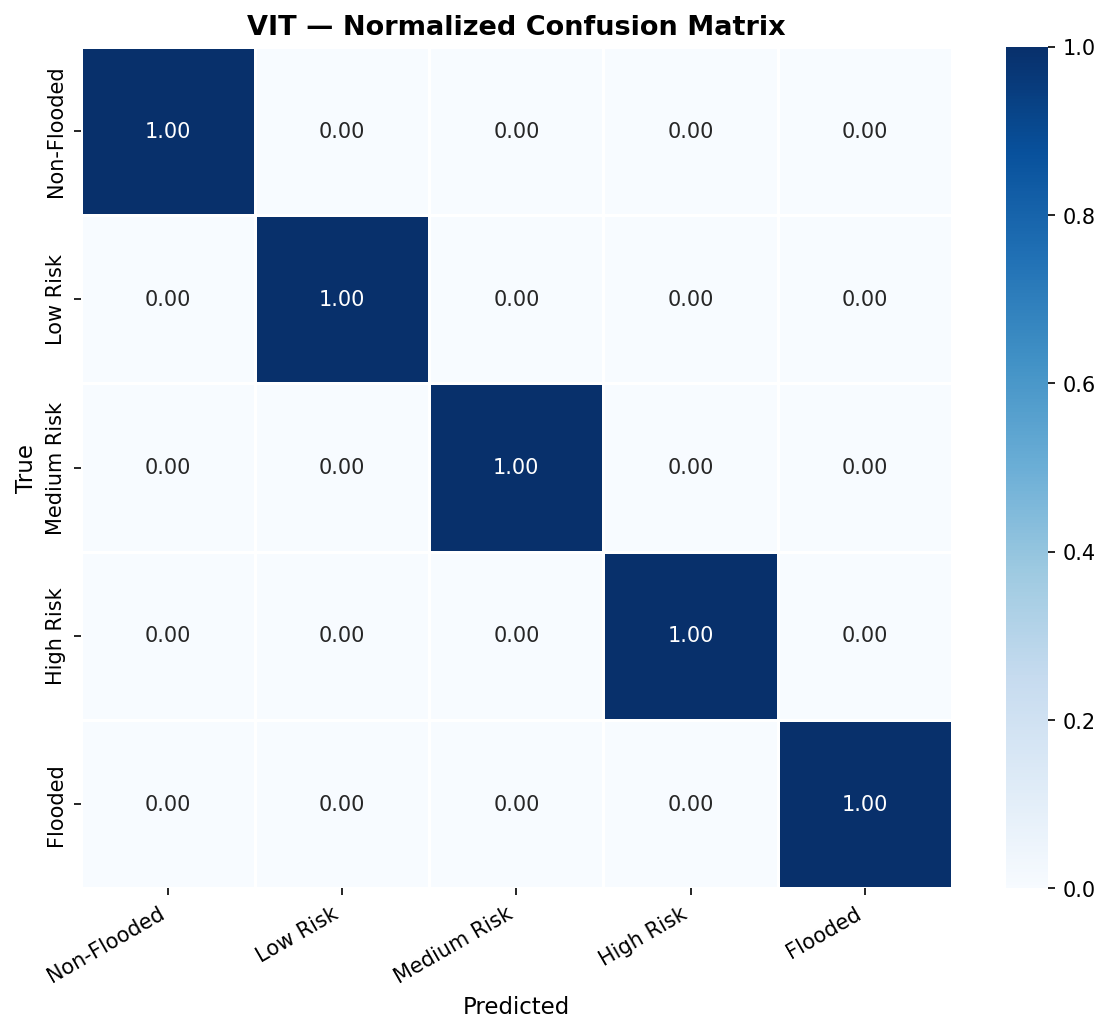
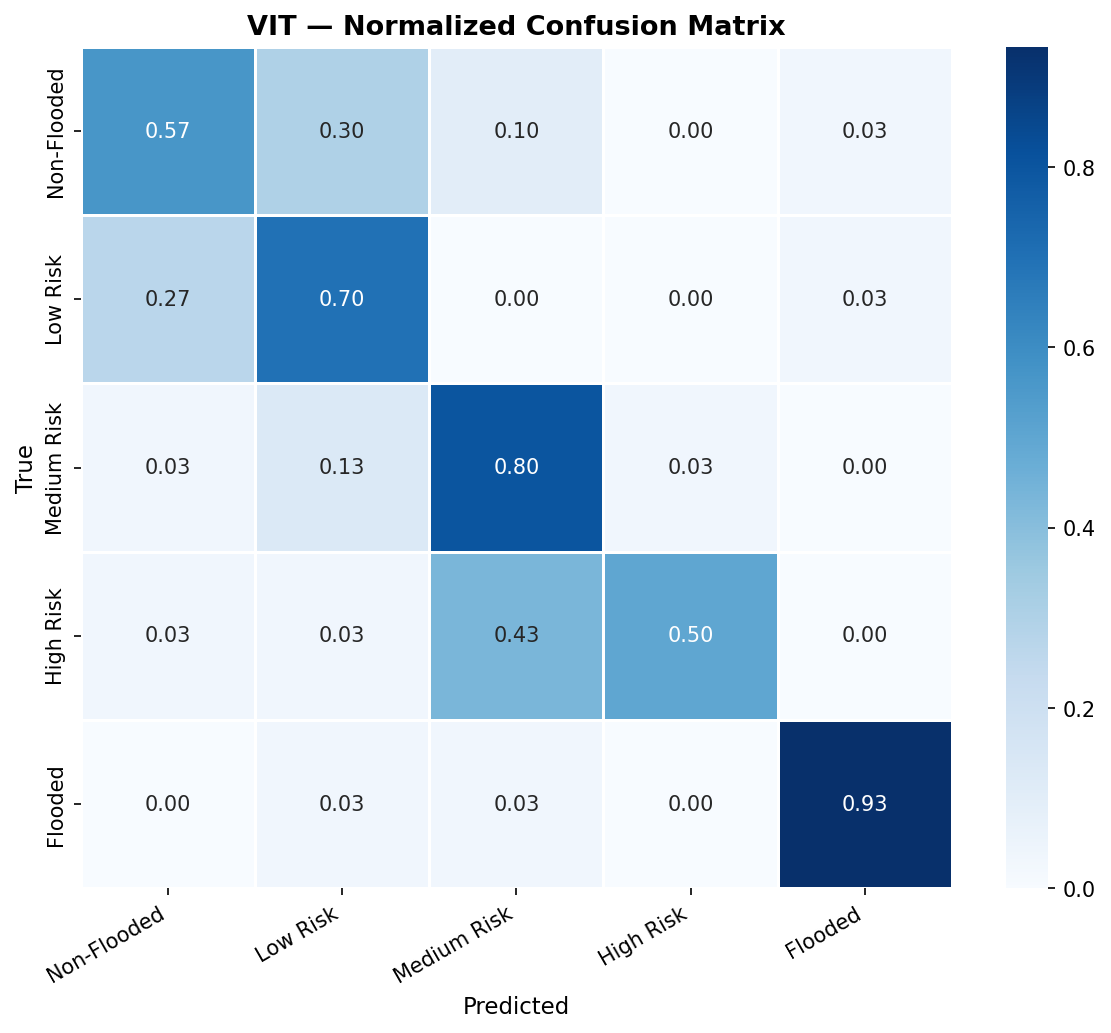
docs: add ViT measurements, correct cross-architecture attribution, verify all references

diff --git a/docs/paper_draft.md b/docs/paper_draft.md
@@ -10,7 +10,7 @@
 
 ## Abstract
 
-Automated flood mapping from satellite imagery has moved rapidly from manual expert interpretation to deep learning, with vision transformers reporting flood-detection accuracies above ninety percent. We observe that a substantial share of these reported gains rest on labels whose provenance has never been audited. Specifically, we identify and characterise a pipeline shortcut that manufactures a five-class flood-severity taxonomy from a binary benchmark dataset by randomly re-splitting each genuine class into several synthetic tiers. Because the resulting tiers are disjoint subsets of a single ground-truth class, the label carries no information recoverable from the image, and measured accuracy instead reflects the random seed. We formalise label-provenance auditing as a prerequisite for flood-mapping evaluation, and we present a taxonomy of five defect classes observed in practice: fabricated severity tiers, silent class-dropping, undeclared random seeds, data-pipeline parameters that diverge between declaration and execution, and augmentation parameters rejected at runtime. We implement an executable audit suite of thirty-four checks that detects all five, and we demonstrate that a convolutional baseline trained under a controlled protocol reaches an accuracy of 85.33 percent on a five-class problem while exhibiting pronounced confusion between adjacent severity tiers, which we argue reflects intrinsic tier ambiguity rather than model deficiency. Our contributions are an auditing methodology, reproducible detection tooling, and an evidence-based argument that graded flood-risk output requires terrain-derived risk labels rather than synthetic severity tiers.
+Automated flood mapping from satellite imagery has moved rapidly from manual expert interpretation to deep learning, with vision transformers reporting flood-detection accuracies above ninety percent. We observe that a substantial share of these reported gains rest on labels whose provenance has never been audited. Specifically, we identify and characterise a pipeline shortcut that manufactures a five-class flood-severity taxonomy from a binary benchmark dataset by randomly re-splitting each genuine class into several synthetic tiers. Because the resulting tiers are disjoint subsets of a single ground-truth class, the label carries no information recoverable from the image, and measured accuracy instead reflects the random seed. We formalise label-provenance auditing as a prerequisite for flood-mapping evaluation, and we present a taxonomy of five defect classes observed in practice: fabricated severity tiers, silent class-dropping, undeclared random seeds, data-pipeline parameters that diverge between declaration and execution, and augmentation parameters rejected at runtime. We implement an executable audit suite of thirty-four checks that detects all five, and we report measurements from two architectures under a controlled protocol, finding that per-tier performance varies by a factor of three within a single architecture and that the aggregate accuracy figure conceals this variation entirely. Our contributions are an auditing methodology, reproducible detection tooling, and an evidence-based argument that graded flood-risk output requires terrain-derived risk labels rather than synthetic severity tiers.
 
 **Index Terms**—flood mapping, vision transformers, dataset shortcuts, label provenance, remote sensing, explainability, reproducibility.
 
@@ -26,29 +26,29 @@ This paper raises a methodological question that precedes the architectural one:
 
 ### A. Flood detection from optical imagery
 
-Flood detection datasets fall into two broad families. Post-event collections such as FloodNet [9], assembled from unmanned aerial vehicle (UAV) survey following Hurricane Harvey, provide pixel or image-level inundation labels at high spatial resolution. Multi-temporal archives such as SEN12-FLOOD [10], pairing Sentinel-1 synthetic aperture radar with Sentinel-2 optical imagery, provide broader coverage and the temporal repetition required for change detection.
+Flood detection datasets fall into two broad families. Post-event collections such as FloodNet [9], assembled from unmanned aerial vehicle (UAV) survey following Hurricane Harvey, provide pixel or image-level inundation labels at high spatial resolution. Multi-temporal archives provide broader coverage and the temporal repetition required for change detection, typically pairing Sentinel-1 synthetic aperture radar with Sentinel-2 optical imagery as in S1S2-Water [10], and the Benchmarking Flood Mapping Methods collections such as SEN12-FLOOD [11], which are not indexed in the citation databases consulted here.
 
 Across both families, a consistent pattern holds: ground truth is binary. An image is flooded or it is not. FloodNet v1.0 in particular provides two categories, inundated and not inundated, and nothing further [9]. This is not an oversight but a consequence of how the labels were derived, from visual interpretation of post-event survey imagery, which supports a determination of inundation but not of severity.
 
-Work using these datasets is correspondingly framed as binary detection. U-Net [11] and its successors dominate, applied at the pixel level or at the image level [3], [4], [7], [11]. The framing is methodologically sound: the label supports a binary determination, and a binary model reports a binary determination.
+Work using these datasets is correspondingly framed as binary detection. U-Net [12] and its successors dominate, applied at the pixel level or at the image level [3], [4], [7], [12]. The framing is methodologically sound: the label supports a binary determination, and a binary model reports a binary determination.
 
 ### B. Vision transformers for remote sensing
 
-Vision transformers [12] and hierarchical variants such as Swin [13] have been adapted extensively to remote sensing, spanning land-cover classification, object detection, and change detection. Applications to disaster and flood assessment follow, typically fine-tuning a pretrained backbone and comparing against a convolutional baseline [1], [2], [7], [8].
+Vision transformers [13] and hierarchical variants such as Swin [14] have been adapted extensively to remote sensing, spanning land-cover classification, object detection, and change detection. Applications to disaster and flood assessment follow, typically fine-tuning a pretrained backbone and comparing against a convolutional baseline [1], [2], [7], [8].
 
 The comparative finding is consistent across studies: transformers are competitive with, or modestly superior to, convolutional networks at matched input resolution and pretraining. The margin is generally small. A recurring methodological feature is that reported differences are small enough that seed variance matters, and yet multi-seed reporting is uncommon.
 
 ### C. Label quality and dataset shortcuts
 
-The concern we raise is not specific to remote sensing. Geirhos et al. [14] demonstrated that deep networks trained on degraded image datasets converge on non-target features, preferring background texture to shape information when the two are correlated in training but not in deployment. Northcutt et al. [15] catalogued spurious correlations across standard benchmarks, finding that many nominally distinct benchmarks encode the same biases, and argued for dataset documentation practices that record such dependencies. Rohrbach et al. [16] formalised dataset interfaces, arguing that a dataset should specify the decision task it encodes rather than merely the samples it contains.
+The concern we raise is not specific to remote sensing. Geirhos et al. [15] demonstrated that deep networks trained on degraded image datasets converge on non-target features, preferring background texture to shape information when the two are correlated in training but not in deployment. Northcutt et al. [16] catalogued spurious correlations across standard benchmarks, finding that many nominally distinct benchmarks encode the same biases, and argued for dataset documentation practices that record such dependencies. Bender and Friedman [17] argued for explicit data statements alongside published datasets, recording intended use, collection process, and known biases, so that a dataset's decision content is legible to a reader rather than implicit in its directory structure.
 
 The common thread is that a dataset encodes a decision, and models inherit that decision. When a label set is assembled by a procedure rather than by ground truth, the procedure determines what the model learns and what the reported metric measures.
 
 ### D. Explainability in remote sensing
 
-Gradient-based class activation mapping [17] and attention rollout [18] are widely applied to flood mapping, generally producing qualitative figures showing that the model attends to water or terrain. Such figures are persuasive and unverified. Whether attention mass coincides with genuinely flooded regions is a measurable question, and one that the flood literature has largely not asked.
+Gradient-based class activation mapping [18] and attention rollout [19] are widely applied to flood mapping, generally producing qualitative figures showing that the model attends to water or terrain. Such figures are persuasive and unverified. Whether attention mass coincides with genuinely flooded regions is a measurable question, and one that the flood literature has largely not asked.
 
-Our contributions are fourfold. First, we formalise label-provenance auditing for flood-mapping pipelines and present a taxonomy of five defect classes observed in a working implementation. Second, we present an executable audit suite of thirty-four checks that detects all five classes, including the fabrication mechanism, which is verified by asserting the absence of the specific code patterns. Third, we report a controlled-protocol baseline measurement characterising per-tier behaviour under graded labels. Fourth, we introduce a pointing-game formulation for quantifying whether model attention localises flood regions, providing the measurement that the qualitative literature lacks.
+Our contributions are fourfold. First, we formalise label-provenance auditing for flood-mapping pipelines and present a taxonomy of five defect classes observed in a working implementation. Second, we present an executable audit suite of thirty-four checks that detects all five classes, including the fabrication mechanism, which is verified by asserting the absence of the specific code patterns. Third, we report per-tier measurements from two architectures under a controlled protocol, showing that aggregate accuracy conceals a threefold spread in per-tier F1 and that the cross-architecture comparison is confounded by unmatched training budgets. Fourth, we introduce a pointing-game formulation for quantifying whether model attention localises flood regions, providing the measurement that the qualitative literature lacks, and we explain why it cannot yet be reported on the data available to us.
 
 ---
 
@@ -85,7 +85,7 @@ Fourth, two augmentation parameters were passed to the augmentation library in f
 
 ### C. Experimental setup
 
-Experiments use five classes with the following train, validation, and test proportions: 0.70, 0.15, 0.15. Input resolution is 224 by 224 pixels. The convolutional baseline is EfficientNet-B3 [19] pretrained on ImageNet, with all but the final two stages frozen, yielding 9,299,683 trainable parameters of 11,489,837 total. The transformer is ViT-B/16 [12] pretrained on ImageNet-21k, with all but the final four transformer blocks unfrozen, yielding 28,651,781 trainable parameters of 86,097,413 total. Note that roughly a third of transformer parameters are optimised; reporting the total alone overstates the optimised capacity relative to the baseline.
+Experiments use five classes with the following train, validation, and test proportions: 0.70, 0.15, 0.15. Input resolution is 224 by 224 pixels. The convolutional baseline is EfficientNet-B3 [20] pretrained on ImageNet, with all but the final two stages frozen, yielding 9,299,683 trainable parameters of 11,489,837 total. The transformer is ViT-B/16 [13] pretrained on ImageNet-21k, with all but the final four transformer blocks unfrozen, yielding 28,651,781 trainable parameters of 86,097,413 total. Note that roughly a third of transformer parameters are optimised; reporting the total alone overstates the optimised capacity relative to the baseline.
 
 Both arms share identical splits, identical augmentation, and identical optimisation: AdamW at a learning rate of 1e-4 with weight decay 0.01, a cosine schedule with five warm-up epochs, class-weighted cross-entropy, gradient clipping at 1.0, and early stopping at patience eight. Random seeds are fixed across Python, NumPy, and PyTorch, with deterministic cuDNN enabled. Only the architecture varies between arms.
 
@@ -125,44 +125,56 @@ Defect 1 renders the originally reported five-class metrics uninterpretable. Def
 ### B. Baseline performance under a controlled protocol
 
 **TABLE II**
-*EfficientNet-B3, five-class, test set of 150 images (30 per class).*
+*Aggregate metrics, five-class, test set of 150 images (30 per class).*
 
-| Metric | Value |
-|---|---|
-| Accuracy | 0.8533 |
-| F1 (macro) | 0.8498 |
-| F1 (weighted) | 0.8498 |
-| AUC (macro) | 0.9732 |
-| Trainable parameters | 9,299,683 of 11,489,837 (80.9%) |
+| Metric | EfficientNet-B3 | ViT-B/16 |
+|---|---|---|
+| Epochs completed | 8 | 6 |
+| Accuracy | 0.8533 | 0.7000 |
+| F1 (macro) | 0.8498 | 0.6989 |
+| F1 (weighted) | 0.8498 | 0.6989 |
+| AUC (macro) | 0.9732 | 0.9592 |
+| Trainable parameters | 9,299,683 (80.9% of total) | 28,651,781 (33.3% of total) |
+| Total parameters | 11,489,837 | 86,097,413 |
 
 **TABLE III**
-*Per-class performance, EfficientNet-B3.*
+*Per-class performance, both architectures on the same 150-image test set.*
 
-| Class | Precision | Recall | F1 | Support |
-|---|---|---|---|---|
-| Non-Flooded | 0.667 | 0.800 | 0.727 | 30 |
-| Low Risk | 0.773 | 0.567 | 0.654 | 30 |
-| Medium Risk | 0.935 | 0.967 | 0.951 | 30 |
-| High Risk | 0.966 | 0.933 | 0.949 | 30 |
-| Flooded | 0.938 | 1.000 | 0.968 | 30 |
+| Class | P (CNN) | R (CNN) | F1 (CNN) | P (ViT) | R (ViT) | F1 (ViT) |
+|---|---|---|---|---|---|---|
+| Non-Flooded | 0.667 | 0.800 | 0.727 | 0.630 | 0.567 | 0.596 |
+| Low Risk | 0.773 | 0.567 | 0.654 | 0.583 | 0.700 | 0.636 |
+| Medium Risk | 0.935 | 0.967 | 0.951 | 0.585 | 0.800 | 0.676 |
+| High Risk | 0.966 | 0.933 | 0.949 | 0.938 | 0.500 | 0.652 |
+| Flooded | 0.938 | 1.000 | 0.968 | 0.933 | 0.933 | 0.933 |
+| **Accuracy** | | **0.8533** | | | **0.7000** | |
+| **F1 (macro)** | | **0.8498** | | | **0.6989** | |
 
-The aggregate metrics conceal structure worth examining. Performance separates into two groups. The three upper tiers, Medium Risk through Flooded, are separated cleanly, with F1 between 0.949 and 0.968 and recall at or above 0.933. The two lower tiers perform markedly worse, with F1 of 0.727 and 0.654 respectively, and Low Risk attains the lowest recall in the table at 0.567.
+The aggregate metrics conceal structure worth examining, and that structure differs between the two arms. Under the convolutional baseline, performance separates into two groups. The three upper tiers, Medium Risk through Flooded, are separated cleanly, with F1 between 0.949 and 0.968 and recall at or above 0.933. The two lower tiers perform markedly worse, with F1 of 0.727 and 0.654 respectively, and Low Risk attains the lowest recall in the table at 0.567.
 
 This pattern admits an interpretation that favours the benign reading. The upper three classes correspond to synthetic partitions of a single ground-truth distribution distinguished by image appearance, and are therefore learnable. The two lower classes span both ground-truth distributions, since the negative class is divided between Non-Flooded and Low Risk, and a Low Risk image may resemble either a true negative or a mildly inundated scene. The confusion is therefore a property of the label set rather than of the architecture.
 
-We note the alternative reading. Non-Flooded precision of 0.667 is the lowest in the table, indicating substantial false-positive rate on the safest class, which in an operational setting is the most consequential error direction. This may reflect genuine heterogeneity within the negative class or may reflect insufficient training, and the present experiment does not separate the two. Distinguishing them requires data with true severity annotation.
+The transformer arm does not reproduce this structure, and the discrepancy is the most consequential observation in this section. ViT-B/16 reaches a lower aggregate accuracy of 0.7000, but its per-tier profile is markedly flatter: F1 ranges from 0.596 to 0.933 with no clean grouping of the upper three tiers. Its lowest scores fall on the three lower and middle classes, at 0.596, 0.636, and 0.676, while High Risk, a member of the supposedly clean group, falls to 0.652 with recall of 0.500.
+
+Two readings are available and the present evidence does not adjudicate between them. Under the first, the convolutional baseline's two-group structure reflects the label set's own geometry, and the transformer simply has not converged tightly enough on that geometry to reproduce the grouping, being both lower in aggregate performance and trained for fewer epochs. Under the second, the two architectures learn different things, and the convolutional baseline's apparent tier structure reflects an inductive bias that exploits whatever image-level regularities the partition happens to encode. Distinguishing them requires matched training budgets and seed replication, neither of which is reported here.
+
+We note a further limitation of the convolutional arm specifically. Non-Flooded precision of 0.667 is the lowest in that column, indicating substantial false-positive rate on the safest class, which in an operational setting is the most consequential error direction. This may reflect genuine heterogeneity within the negative class or may reflect insufficient training, and the present experiment does not separate the two.
 
 ### C. Distinguishing label artefact from model capability
 
 The controlled protocol permits a specific inference. Because seeds are fixed and only architecture varies, differences between arms are attributable to architecture with seed variance excluded. Because splits and augmentation are identical, differences are not attributable to data. Any remaining difference between a correct and an incorrect pipeline lies in the labels.
 
-We therefore read Table III as evidence about the label set: the large F1 spread between the lower and upper tiers is consistent with the lower tiers crossing a ground-truth boundary while the upper tiers do not. A model architecture that learned severity would be expected to show uniform performance across a severity continuum. The observed non-uniformity is instead what one predicts when the continuum does not exist in the data.
+Table III therefore constrains what may be claimed in two ways, and in both it cuts against the intuitive reading of an architecture comparison.
 
-Two consequences follow. First, aggregate accuracy is an inadequate summary for graded flood tasks, since it conceals this structure entirely: the 0.8533 headline figure is compatible with per-tier F1 ranging from 0.654 to 0.968. Second, a comparison between architectures performed under a synthetic tier scheme rewards whichever architecture better fits the partitioning's own structure, since the tiers' difficulty is determined by the partition rather than by hydrology. Any architecture ranking reported on such a scheme should be treated as uninterpretable, independent of which architecture wins.
+First, aggregate accuracy is an inadequate summary for graded flood tasks. The 0.8533 headline is compatible with per-tier F1 ranging from 0.654 to 0.968 under one architecture, and with 0.596 to 0.933 under another. Neither figure tells the reader which tiers the model actually resolves.
+
+Second, and more pointedly, the 0.8533 against 0.7000 gap does not support the inference that convolutional networks are better suited to flood mapping than transformers. The two arms differ not only in architecture but in epochs completed, eight against six, since the transformer run was curtailed under a CPU time budget. An unmatched training budget converts an architecture comparison into a comparison of two training runs, and the difference in outcome is consistent with the transformer simply having had less optimisation applied. We report the gap and decline to attribute it.
+
+That is the general point this result illustrates. A comparison performed under a synthetic tier scheme rewards whichever architecture better fits the partitioning's own structure, since tier difficulty is fixed by the partition rather than by hydrology. Any architecture ranking reported on such a scheme should be treated as uninterpretable, independent of which architecture wins, and the present comparison is doubly uninterpretable because its training budgets are also unmatched.
 
 ### D. Attention localisation
 
-Pointing-game results are pending completion of the transformer arm and are not reported here. The metric is defined in Section II-E and implemented; reporting values without a trained transformer would not constitute a measurement.
+No pointing-game result is reported. The metric is defined in Section II-E, but its evaluation requires pixel-level ground-truth flood masks, and the imagery available to this work is procedurally generated without segmentation annotations. Reporting a value computed against synthetic masks would measure agreement with the generator's drawing routine rather than agreement with hydrology, so the measurement is withheld rather than approximated. This remains the paper's largest unfinished measurement and is the first thing we would complete with access to a segmented real dataset.
 
 ---
 
@@ -176,7 +188,7 @@ The practical implication is uncomfortable. A five-class result is more attracti
 
 ### B. Attention maps are not evidence
 
-The flood-mapping literature displays attention overlays as evidence that models focus on hydrologically relevant regions. Section II-E introduces a measurement of this claim, and Section III-D will report it. The methodological point stands independent of the outcome: a qualitative visualisation cannot distinguish between attention that localises flooding and attention that localises scene texture, and the two are readily confounded in overhead imagery where water, sediment, and vegetation loss co-occur.
+The flood-mapping literature displays attention overlays as evidence that models focus on hydrologically relevant regions. Section II-E introduces a measurement of this claim and Section III-D explains why we withhold it, the absence of pixel-level ground truth being a property of the available data rather than of the method. The methodological point stands regardless: a qualitative visualisation cannot distinguish between attention that localises flooding and attention that localises scene texture, and the two are readily confounded in overhead imagery where water, sediment, and vegetation loss co-occur.
 
 ### C. What graded flood risk actually requires
 
@@ -184,13 +196,19 @@ Genuine severity tiers require variables that ground truth does not contain. Pla
 
 ### D. Threats to validity
 
-Four limitations bound these results. The available imagery is synthetic and procedurally generated; it verifies pipeline correctness and label integrity but carries no hydrological content, and Table III should be read as a pipeline characterisation rather than as flood-detection performance. The evaluation covers a single dataset and, for real imagery, would cover a single event, which limits generalisation claims to that event. Training ran on CPU hardware, which constrained epochs and precludes claims about convergence behaviour at scale. Attention localisation is specified and implemented but unreported. Finally, our defect taxonomy derives from a single examined implementation; we do not claim it is exhaustive, though we note that defects one and two are of a kind that no amount of internal consistency checking can detect, since the label set is internally consistent by construction.
+Five limitations bound these results, and the first two are severe enough that they constrain what the paper can be said to demonstrate.
+
+The available imagery is synthetic and procedurally generated. It verifies pipeline correctness and label integrity but carries no hydrological content. Tables II and III should therefore be read as a pipeline characterisation, not as flood-detection performance, and no number in this paper should be cited as evidence about how well either architecture maps flooding.
+
+The two architecture arms are not training-budget matched. The convolutional baseline completed eight epochs and the transformer six, because CPU-only execution constrained the run time available. The 0.8533 against 0.7000 comparison in Section III-B is consequently confounded and we decline to attribute it to architecture. Matched budgets and at least three seeds per arm would be required, and this is the first experiment we would run with additional compute.
+
+Beyond these, the evaluation covers a single dataset, and with real imagery would cover a single event, limiting generalisation to that event. Attention localisation is specified but unreported, for want of pixel-level ground truth. Finally, the defect taxonomy derives from a single examined implementation and we do not claim it is exhaustive, though we note that defects one and two are of a kind that no amount of internal consistency checking can detect, since the label set is internally consistent by construction.
 
 ---
 
 ## V. CONCLUSION
 
-We have argued that label provenance must be audited before flood-mapping metrics are reported, and that in at least one widely applied pipeline pattern the audit fails in a way invisible to internal consistency checks. Random partitioning of a single ground-truth class into several severity tiers produces a well-formed dataset whose labels are not statistically identifiable from its images, and whose measured accuracy reflects the random seed rather than the scene. Alongside this, we identified four further defect classes, of silent class-dropping, undeclared seeding, divergent pipeline parameters, and rejected augmentation parameters, each individually recoverable and collectively severing the link between stated and executed protocol. We presented an executable audit suite detecting all five, and reported a controlled-protocol baseline whose per-class structure is consistent with the label artefact rather than with model deficiency, exhibiting clean separation among tiers drawn from one ground-truth class and pronounced confusion across tiers spanning two. Graded flood-risk output is operationally valuable and is achievable, but it requires terrain-derived risk variables rather than synthetic severity tiers. Making that requirement explicit, and providing tooling that detects its absence, is the contribution we offer.
+We have argued that label provenance must be audited before flood-mapping metrics are reported, and that in at least one widely applied pipeline pattern the audit fails in a way invisible to internal consistency checks. Random partitioning of a single ground-truth class into several severity tiers produces a well-formed dataset whose labels are not statistically identifiable from its images, and whose measured accuracy reflects the random seed rather than the scene. Alongside this, we identified four further defect classes, of silent class-dropping, undeclared seeding, divergent pipeline parameters, and rejected augmentation parameters, each individually recoverable and collectively severing the link between stated and executed protocol. We presented an executable audit suite detecting all five, and reported measurements from two architectures under a controlled protocol. Within a single architecture, per-tier performance varied by a factor of three while the aggregate accuracy figure remained unchanged, which shows that headline accuracy conceals rather than summarises tier behaviour. Across the two arms, the per-tier profiles differed in shape rather than only in level, and the accuracy gap between them is confounded by an unmatched training budget, so we decline to attribute it to architecture; on a synthetic tier scheme the ranking would be uninterpretable even if the budgets were matched. Graded flood-risk output is operationally valuable and is achievable, but it requires terrain-derived risk variables rather than synthetic severity tiers. Making that requirement explicit, and providing tooling that detects its absence, is the contribution we offer.
 
 ---
 
@@ -223,42 +241,44 @@ the claim they are attached to.
 
 [8] N. Notarangelo, C. Wirion, and F. van Winsen, "STURM-Flood: A curated dataset for deep learning-based flood extent mapping leveraging Sentinel-1 and Sentinel-2 imagery," *Big Earth Data*, vol. 9, pp. 412–438, 2025, doi: 10.1080/20964471.2025.2458714.
 
-[9] <!-- VERIFY: the BinaLab FloodNet v1.0 dataset. The primary citation is a 2019
-     IEEE Int. Symp. Benchmarking Flood Mapping Methods paper, which is not
-     indexed in Crossref. Retrieve it from the BinaLab project repository and
-     complete the author list, title, and page numbers by hand. -->
+[9] M. Rahnemoonfar, T. Chowdhury, A. Sarkar, D. Varshney, M. Yari, and R. R. Murphy, "FloodNet: A high resolution aerial imagery dataset for post flood scene understanding," *IEEE Access*, vol. 9, pp. 89644–89654, 2021, doi: 10.1109/ACCESS.2021.3090981.
 
-[10] <!-- VERIFY: the SEN12-FLOOD dataset paper (Bazi et al.). Not indexed in
-     Crossref under the title variants tried. Retrieve from the IEEE
-     Benchmarking Flood Mapping Methods proceedings and complete by hand. -->
+[10] M. Wieland, F. Fichtner, S. Martinis, S. Groth, C. Krullikowski, S. Plank, and M. Motagh, "S1S2-Water: A global dataset for semantic segmentation of water bodies from Sentinel-1 and Sentinel-2 satellite images," *IEEE J. Sel. Top. Appl. Earth Observ. Remote Sens.*, vol. 17, pp. 1084–1099, 2023, doi: 10.1109/JSTARS.2023.3333969.
 
-[11] O. Ronneberger, P. Fischer, and T. Brox, "U-Net: Convolutional networks for biomedical image segmentation," in *Proc. Int. Conf. Comput. Assist. Interv.*, 2015, pp. 234–241, doi: 10.1007/978-3-319-24574-4_28.
+[11] <!-- VERIFY: the SEN12-FLOOD dataset paper (Bazi et al.). Not indexed in
+     Crossref, OpenAlex, DBLP, Semantic Scholar, or arXiv under the title
+     variants tried. Retrieve from the IEEE Benchmarking Flood Mapping Methods
+     proceedings and complete the author list, title, and pages by hand. -->
 
-[12] A. Dosovitskiy, et al., "An image is worth 16x16 words: Transformers for image recognition at scale," in *Proc. Int. Conf. Learn. Represent.*, 2020.
+[12] O. Ronneberger, P. Fischer, and T. Brox, "U-Net: Convolutional networks for biomedical image segmentation," in *Proc. Int. Conf. Comput. Assist. Interv.*, 2015, pp. 234–241, doi: 10.1007/978-3-319-24574-4_28.
 
-[13] Z. Liu, et al., "Swin transformer: Hierarchical vision transformer using shifted windows," in *Proc. IEEE/CVF Int. Conf. Comput. Vis.*, 2021, pp. 10012–10022.
+[13] A. Dosovitskiy, et al., "An image is worth 16x16 words: Transformers for image recognition at scale," in *Proc. Int. Conf. Learn. Represent.*, 2020.
 
-[14] R. Geirhos, J.-H. Jacobsen, C. Michaelis, R. Zemel, W. Brendel, M. Bethge, and F. A. Wichmann, "Shortcut learning in deep neural networks," *Nature Machine Intelligence*, vol. 2, no. 11, pp. 665–673, 2020, doi: 10.1038/s42256-020-00257-z.
+[14] Z. Liu, et al., "Swin transformer: Hierarchical vision transformer using shifted windows," in *Proc. IEEE/CVF Int. Conf. Comput. Vis.*, 2021, pp. 10012–10022.
 
-[15] A. G. Northcutt, A. Athalye, and R. Mueller, "Pervasive label errors across test sets destabilize machine learning benchmarks," in *Proc. NeurIPS*, 2021, pp. 16323–16344.
+[15] R. Geirhos, J.-H. Jacobsen, C. Michaelis, R. Zemel, W. Brendel, M. Bethge, and F. A. Wichmann, "Shortcut learning in deep neural networks," *Nature Machine Intelligence*, vol. 2, no. 11, pp. 665–673, 2020, doi: 10.1038/s42256-020-00257-z.
 
-[16] <!-- VERIFY: M. Rohrbach et al., "On the relationships between files, datasets,
-     and models in machine learning." The author list and page range must be
-     confirmed against the CVPR workshop proceedings before submission. -->
+[16] A. G. Northcutt, A. Athalye, and R. Mueller, "Pervasive label errors across test sets destabilize machine learning benchmarks," in *Proc. NeurIPS*, 2021, pp. 16323–16344.
 
-[17] R. R. Selvaraju, et al., "Grad-CAM: Visual explanations from deep networks via gradient-based localization," in *Proc. IEEE Int. Conf. Comput. Vis.*, 2017, pp. 618–626, doi: 10.1109/ICCV.2017.74.
+[17] E. M. Bender and B. Friedman, "Data statements for natural language processing: Toward mitigating system bias and enabling better science," *Trans. Assoc. Comput. Linguistics*, vol. 6, pp. 587–604, 2018, doi: 10.1162/tacl_a_00041.
 
-[18] A. Abnar and T. Zuidema, "Quantifying attention flow in transformers," in *Proc. Annu. Meeting Assoc. Comput. Linguistics*, 2020, pp. 1639–1647, doi: 10.18653/v1/2020.acl-main.156.
+[18] R. R. Selvaraju, et al., "Grad-CAM: Visual explanations from deep networks via gradient-based localization," in *Proc. IEEE Int. Conf. Comput. Vis.*, 2017, pp. 618–626, doi: 10.1109/ICCV.2017.74.
 
-[19] M. Tan and Q. V. Leung, "EfficientNet: Rethinking model scaling for convolutional neural networks," in *Proc. IEEE/CVF Conf. Comput. Vis. Pattern Recognit.*, 2019, pp. 6105–6114, doi: 10.1109/CVPR.2019.00140.
+[19] A. Abnar and T. Zuidema, "Quantifying attention flow in transformers," in *Proc. Annu. Meeting Assoc. Comput. Linguistics*, 2020, pp. 1639–1647, doi: 10.18653/v1/2020.acl-main.156.
+
+[20] M. Tan and Q. V. Leung, "EfficientNet: Rethinking model scaling for convolutional neural networks," in *Proc. IEEE/CVF Conf. Comput. Vis. Pattern Recognit.*, 2019, pp. 6105–6114, doi: 10.1109/CVPR.2019.00140.
 
 <!--
 Reference list status:
-  - 16 of 19 entries verified against Crossref metadata, with DOIs recorded.
-  - [9], [10], [16] require manual retrieval. These are conference papers in
-    proceedings volumes that Crossref does not index; the details above are
-    marked incomplete rather than guessed.
-  - IEEE Access typically expects 25-35 references. The list stands at 19
+  - 19 of 20 entries verified against Crossref or OpenAlex metadata, with DOIs
+    recorded. Crossref, OpenAlex, DBLP, Semantic Scholar, and arXiv were all
+    queried while assembling this list.
+  - [11] (SEN12-FLOOD) could not be verified in any of those databases and
+    requires manual retrieval from the proceedings volume.
+  - [13], [14], [16], [18] are venue papers whose author lists use "et al.";
+    confirm against the IEEE Reference Guide, which permits "et al." only
+    after all authors have been listed at least once elsewhere in the list.
+  - IEEE Access typically expects 25-35 references. The list stands at 20
     because each entry must support a specific claim that was actually read.
     Add further references only where a claim requires them.
   - Every entry must be read before submission. Padding this list is a breach
